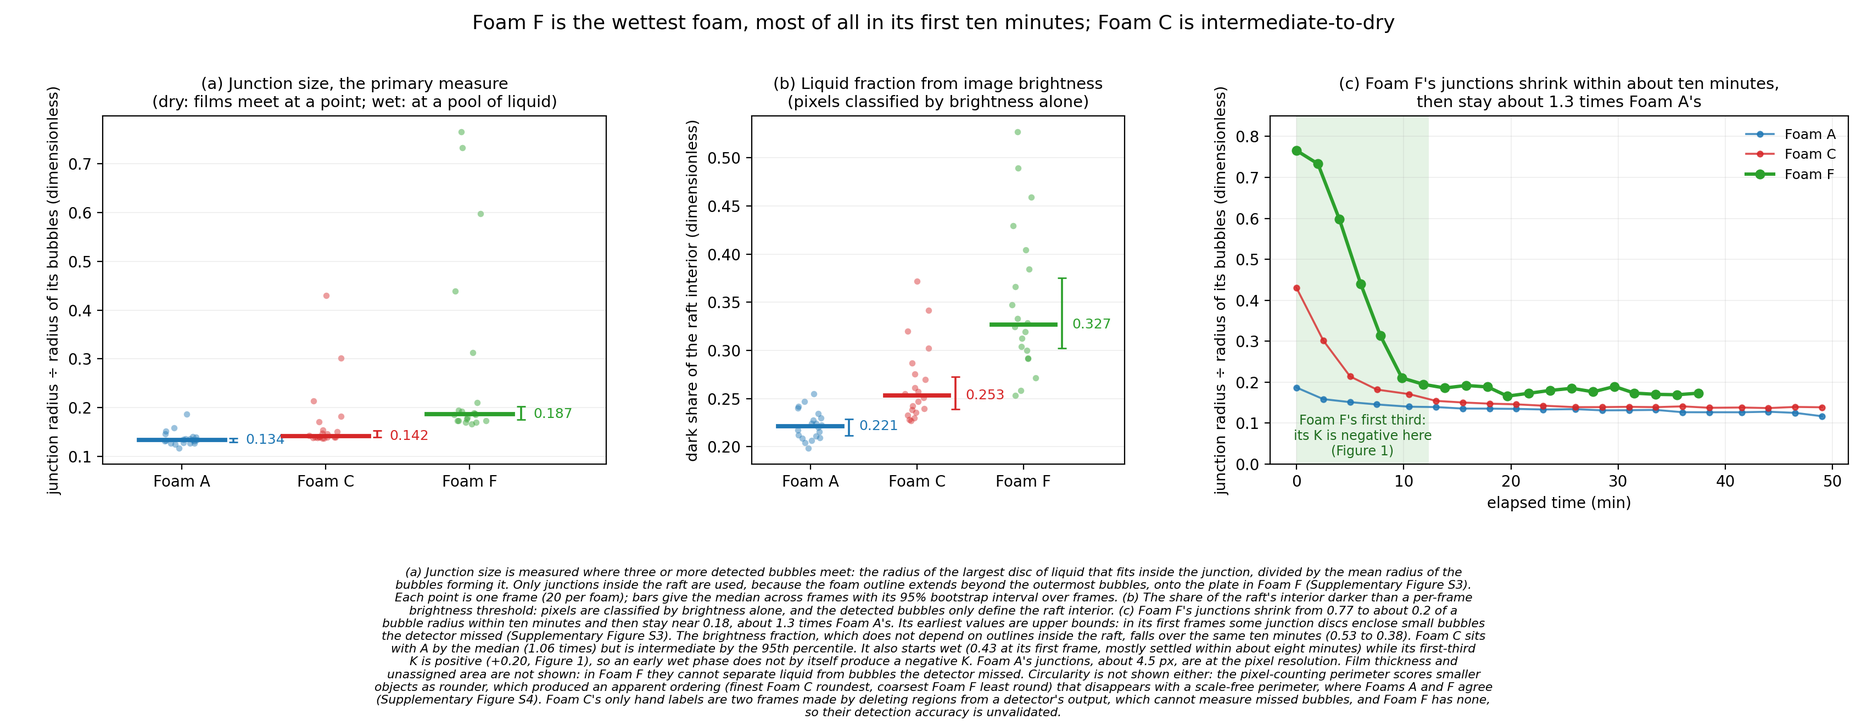
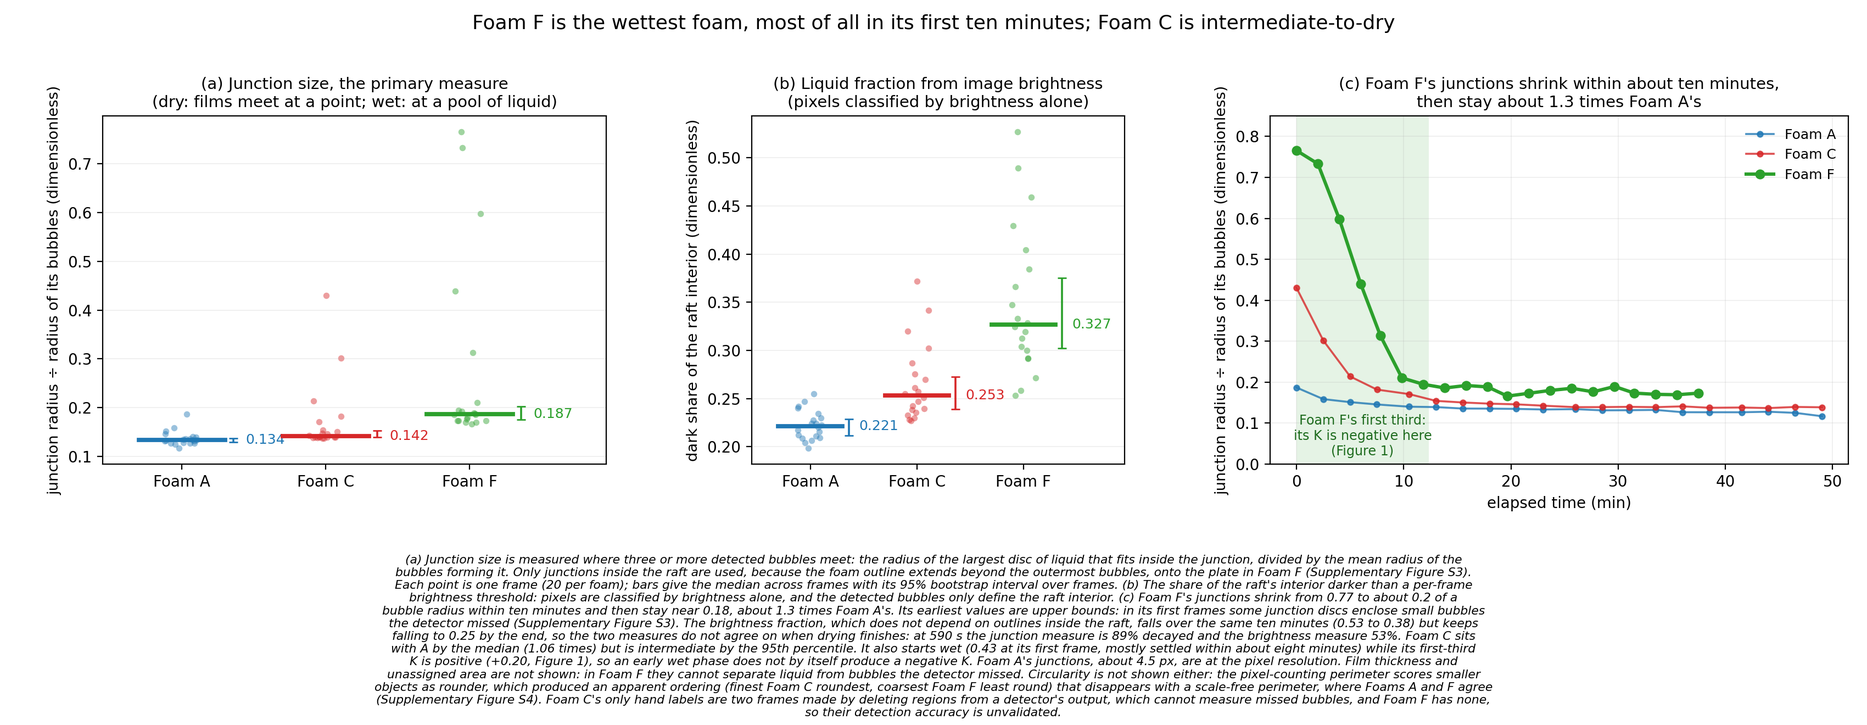
foam_gnn: Task 2 -- the Foam F wetness-K relationship, tested rather than eyeballed
Verdict: the timing coincidence is real and now measured; the correlation carries no
information; and the one test that does inform says wetness is not sufficient.

1. Correlation. Across Foam F's five usable windows Spearman rho(K, wetness) = -0.90
   (junction) and -1.00 (brightness) -- but K's rank order across windows is exactly
   elapsed-time order, so rho(K, wetness) is IDENTICALLY rho(time, wetness) (-0.90 =
   -0.90, -1.00 = -1.00). The correlation restates the wetness-time collinearity and says
   nothing about K. With five windows an exact permutation test can only resolve a
   perfectly monotone relation (|rho| = 1.00; 0.886 at six windows), so treat every
   correlation here as unresolved.
2. Timing. K crosses zero at 402 s [348, 469] (402-465 s across four window schemes),
   inside the wet window. It sits +78 s after the junction half-decay -- inside the 300 s
   granularity of the crossing and flipping resolved/not-resolved with the bootstrap
   construction, so coincident within resolution, NOT a measured lag -- and -133 s before
   the brightness half-decay, where the sign is stable (P ~ 0.998). The two wetness
   measures are not interchangeable clocks: at 590 s the junction measure is 89% decayed,
   the brightness measure 53%.
3. The informative test. After Foam F's junction size comes within 10% of its plateau, K
   rises a further 31% (P(ratio<=1) = 0.021) while its own wetness change is NOT
[…]

Changed region(s): [[0.1871, 0.7455, 0.8106, 0.9008]]

diff --git a/foam_gnn/docs/foamF_wetness_k_test.md b/foam_gnn/docs/foamF_wetness_k_test.md
@@ -1,0 +1,271 @@
+# Is there a measurable wetness–K relationship in Foam F?
+
+**Verdict: the association is there and strong in sign, but it carries almost no
+information — and the one test that does carry information says wetness is not sufficient.**
+
+1. **The correlation cannot be resolved, and in Foam F it is arithmetically forced.**
+   Across Foam F's five usable windows, Spearman ρ(K, wetness) = **−0.90** (junction size)
+   and **−1.00** (brightness). But K's rank order across those windows is *exactly* elapsed
+   time order (ρ(K, t) = +1.00), which makes ρ(K, wetness) **identically ρ(time, wetness)** —
+   the numbers are equal to the digit (−0.90 = −0.90, −1.00 = −1.00). The correlation
+   therefore restates the wetness–time collinearity and says nothing new about K. With five
+   windows an exact permutation test can only reach p < 0.05 for a *perfectly* monotone
+   relation; with three or four windows nothing is resolvable at all.
+2. **The timing is measurable, and the two wetness measures disagree about it.** K crosses
+   zero at **402 s** [348, 469] (402–465 s across window schemes). It sits **+78 s** after
+   the junction-size half-decay (325 s [281, 379]) — inside the 300 s granularity of the
+   crossing estimate and flipping between "resolved" and "not resolved" depending on how
+   the half level is bootstrapped, so **coincident within resolution, not a measured lag**
+   — and **−133 s before** the brightness half-decay (535 s [508, 686]), where the sign is
+   stable under both constructions (P ≈ 0.998). The measures are not interchangeable
+   clocks: at 590 s the junction measure has completed 89% of its decay and the brightness
+   measure 53% (at 740 s, 94% and 61%).
+3. **The decisive test: in Foam F, K rises while its wetness change is not resolvable.**
+   After the junction measure comes within 10% of its plateau:
+
+   | foam | wetness change over the window | resolved? | K over the window | ratio | P(ratio ≤ 1) |
+   |---|---|---|---|---|---|
+   | **F** | −0.0083 [−0.0152, **+0.0010**] | **no** | +1.489 → +1.951 | **1.31** [1.01, 1.75] | 0.021 |
+   | C | −0.0048 [−0.0089, −0.0029] | yes | +0.211 → +0.133 | **0.63** [0.52, 0.75] | 1.000 |
+   | A | −0.0092 [−0.0132, −0.0047] | yes | +0.466 → +0.317 | 0.68 [0.16, 1.40] | 0.843 (unresolved) |
+
+   **Foam F's K rises by 31% over a stretch where its own wetness change is not resolvable
+   from zero** (P(ratio ≤ 1) = 0.021). Foam C's K *falls* by 37% over a small but resolved
+   drying — so once each foam has dried, K keeps moving, upward in one and downward in the
+   other. **No single function K(wetness) fits both**, and in Foam F wetness is not needed
+   for K to move. (Foam A is unresolved in both directions and carries no weight.)
+
+Driver: `dev/wetness_k_correlation.py`; wetness on a dense grid from `dev/wetness_dense.py`
+(which reproduces the published 20-frame values exactly on every shared frame). Artifacts:
+`qc/wetness_k/`.
+
+---
+
+## 1. Windows, and what the 20-bubble floor allows
+
+Foam F has **56 tracked bubbles in total** and its trusted count falls below 20 after about
+1530 s, so late windows are underpowered by construction. Windows are **refused, not
+fitted**, and the reason is recorded: every Foam F refusal is `bubbles<20`, never missing
+wetness.
+
+| scheme | usable | refused (reason) |
+|---|---|---|
+| thirds (740 s) | 3 of 3 | — |
+| quarters (555 s) | 3 of 4 | last: 16 bubbles |
+| fifths (444 s) | 4 of 5 | last: 13 bubbles |
+| **sixths (370 s) — primary** | **5 of 6** | last: 8 bubbles |
+| sliding 600 s / step 300 s (timing only) | 6 of 7 | from 1800 s: 13 bubbles |
+
+> `# DECISION (primary windows = equal sixths).` Thirds cannot locate a transition inside
+> the first third. Sixths are the finest equal partition where most windows clear the floor.
+> `# DECISION (sliding windows are used only for timing)`, never as correlation samples,
+> because overlapping windows are not independent points.
+> `# DECISION (window wetness = median of the dense-grid frames inside it)`, matching how
+> every other wetness number in the project is formed; intervals resample those frames.
+> `# DECISION (Foam A's wetness grid covers both runs, 0–5999 s).` The published 20-frame
+> file samples run0 only (0–2850 s). Pairing that against K windows spanning the whole
+> sequence refused Foam A's later windows for want of wetness rather than bubbles, and
+> **misplaced its plateau onset at 750 s instead of 3119 s** — which reversed its
+> post-plateau result. Extending the grid fixed it; the first version of this document
+> reported Foam A rising 1.44× [1.24, 1.68], which was an artifact of the truncation.
+
+**Foam F, primary windows** (30 s horizon; K intervals are cluster bootstraps resampling
+whole bubbles, which are shared between windows — 56 in total):
+
+| window | bubbles | junction size | brightness | K |
+|---|---|---|---|---|
+| 0–370 s | 56 | 0.649 | 0.474 | **−0.700** [−1.050, −0.467] |
+| 370–740 s | 43 | 0.258 | 0.388 | +1.067 [0.600, 1.528] |
+| 740–1110 s | 34 | 0.191 | 0.338 | +1.417 [0.866, 1.799] |
+| 1110–1480 s | 25 | 0.176 | 0.325 | +1.751 [1.233, 2.233] † |
+| 1480–1850 s | 23 | 0.181 | 0.298 | +1.892 [1.166, 2.377] † |
+| 1850–2220 s | **8** | 0.174 | 0.259 | **refused** (no interval is computed) |
+
+† These two windows clear the floor on the point estimate (25 and 23 bubbles) but their
+*bootstrap replicates* mostly do not: the median replicate holds 16 and 15 distinct bubbles,
+and 96% and 99% of replicates fall below the 20-bubble floor. Their intervals should be read
+as wide for that reason, and the project's floor is applied to the point estimate only.
+
+## 2. The correlation, and why it is uninformative
+
+Sixths, all three foams (A and C are controls run through the identical procedure):
+
+| foam | measure | windows | Spearman ρ | exact p | ρ(K, t) | ρ(wetness, t) |
+|---|---|---|---|---|---|---|
+| **F** | junction size | 5 | **−0.90** [−1.00, −0.60] | 0.083 | **+1.00** | −0.90 |
+| **F** | brightness | 5 | **−1.00** [−1.00, −0.40] | 0.017 | **+1.00** | −1.00 |
+| C | junction size | 6 | +0.43 [−0.09, +0.77] | 0.419 | −0.66 | −0.83 |
+| C | brightness | 6 | +0.66 [+0.13, +0.83] | 0.175 | −0.66 | −1.00 |
+| A | junction size | 6 | −0.83 [−1.00, −0.03] | 0.058 | +0.83 | −1.00 |
+
+(Smallest |ρ| an exact test can resolve: 1.00 at five windows, 0.886 at six. So none of
+these rows is resolved, including Foam A's −0.83 at p = 0.058.)
+
+**Why Foam F's number is empty.** Because ρ(K, t) = +1.00 *exactly*, K's rank vector is the
+time rank vector, so ρ(K, wetness) **is** ρ(time, wetness) — not approximately, identically.
+The correlation measures the wetness–time collinearity, which is a property of the
+experiment, not of K.
+
+This forcing needs |ρ(K, t)| = 1 and so does **not** apply to Foams C and A. Enumerating all
+six-window rank vectors consistent with Foam C's observed ρ(K, t) = −0.66 and
+ρ(wetness, t) = −0.83, its ρ(K, wetness) could have fallen anywhere in [+0.14, +0.94]; the
+observed +0.43 is one of fifteen possible values. So Foam C's correlation is not forced —
+but it is also not resolved (its interval spans zero).
+
+**And its positive sign is not an opposite-sign wetness response.** Split Foam C by phase:
+over its own drying (first three sliding windows, junction 0.220 → 0.154) ρ(K, wetness) =
+**−1.0**, the *same* sign as Foam F, with K rising +0.167 → +0.244. The positive
+whole-sequence value comes entirely from the four later windows sitting on C's plateau,
+whose wetness medians (0.145, 0.141, 0.139, 0.139) differ by less than their own bootstrap
+intervals while K falls steadily to +0.133. **During drying the two foams agree in sign;
+they differ in what K does afterwards** — which is the post-plateau test of §4, not a
+contrary wetness response.
+
+**Power.** With five windows the smallest |ρ| an exact permutation test can call significant
+at p < 0.05 is **1.00**; with six it is 0.886; with four the best achievable p is 0.083 and
+with three 0.333, so **no correlation is resolvable below five windows whatever its value**. Foam F's brightness
+result reaches p = 0.017 only by being exactly monotone, and even that is optimistic —
+windows share bubbles and are consecutive in time, so they are not the independent samples
+a permutation test assumes. **Treat every correlation here as unresolved.**
+
+## 3. Timing: coincide, lag, or precede?
+
+| quantity | t (s) | 95% CI |
+|---|---|---|
+| K zero crossing (sliding 600 s / 300 s) | **402** | [348, 469] |
+| — window 600 s / step 150 s | 465 | [362, 533] |
+| — window 450 s / step 150 s | 435 | [360, 505] |
+| — window 740 s / step 370 s | 445 | [383, 516] |
+| junction-size half-decay | **325** | [281, 379] |
+| brightness half-decay | **535** | [508, 686] |
+| **K crossing − junction half-decay** | **+78** | [−0.3, +165], P(≤0) = 0.026 |
+| — same, half level held fixed | +78 | [+7, +166], P(≤0) = 0.014 |
+| **K crossing − brightness half-decay** | **−133** | [−304, −67], P(≤0) = 0.998 |
+| — same, half level held fixed | −133 | [−196, −68], P(≤0) = 0.998 |
+
+The K rows resample **whole bubbles** (cluster bootstrap, 2000 replicates); the half-decay
+rows resample the 46 dense wetness **frames**; the difference rows pair the two
+element-wise.
+
+K's sign change sits **between** the two measures' half-decays: after the junction structure
+has half-collapsed, before half the liquid (by brightness) has gone.
+
+**The junction "lag" is not a resolved lag.** Its interval touches zero under the primary
+construction and clears it under the level-fixed one (P(no lag) = 0.026 and 0.014), so the
+verdict flips with a defensible change of procedure — and across re-runs with fresh seeds
+the lower bound moves either side of zero. More decisively, +78 s is well inside the 300 s
+granularity of the crossing estimate. **Read it as coincident within the resolution of this
+measurement, not as a measured lag.** The brightness comparison is different: K precedes
+that half-decay by 133 s under both constructions, with P ≈ 0.998, and 133 s is comparable
+to the granularity but the sign is stable.
+
+**Caveat on resolution.** The crossing is interpolated between window centres, so its
+granularity is the step: 300 s in the primary scheme, and 150 s, 150 s and **370 s** in the
+three sensitivity runs (the last is coarser than the primary, not finer, and its interval
+conditions on the 97% of replicates in which a crossing exists at all). The estimate is
+stable across schemes (402–465 s), but differences below ~150 s should not be over-read —
+which includes the +78 s junction lag.
+
+**Caveat on the half-decay interval, and why both are reported.** Each replicate
+re-estimates the half threshold as well as the curve, because the threshold is itself
+measured from the data — the bootstrap of the whole estimator. Holding the level fixed
+instead isolates the crossing and gives narrower intervals: the junction difference moves
+from [−0.3, +165] to [+7, +166] and the brightness difference from [−304, −67] to
+[−196, −68] (`qc/wetness_k/timing.csv` carries both rows). The junction verdict changes
+between them, which is precisely why neither is presented alone.
+
+**The two measures disagree about the drying window** (`qc/wetness_k/decay_fractions.csv`).
+At 590 s the junction measure is 89% decayed and the brightness measure 53%; at 740 s, 94%
+and 61%. The junction measure collapses early then saturates near the pixel resolution; the
+brightness measure keeps falling nearly linearly to the end of the sequence.
+
+## 4. The confound, and what would break it
+
+In Foam F wetness and elapsed time are collinear (|ρ| ≈ 1), so **no within-F correlation can
+separate them.** What would:
+
+* **A foam that re-wets, or whose wetness is non-monotone in time.** None of the six foams
+  in this project does.
+* **Two foams with the same wetness trajectory over different elapsed spans**, or the same
+  span with different trajectories — an experiment designed to decorrelate them.
+* **An intervention** setting humidity or evaporation independently of foam age. This is the
+  only clean route and needs new data.
+
+**What the existing data can do:**
+
+* **The post-plateau test.** In Foam F, K rises 31% (P(ratio ≤ 1) = 0.021) while its
+  wetness change is **not resolved** (−0.008 [−0.015, +0.001]) — K moves without a
+  detectable wetness change. In Foam C, K falls 37% over a small resolved drying, i.e.
+  **drier accompanies lower K** once C has dried, while during C's actual drying the sign
+  matches Foam F's (§2). The implied local sensitivities have opposite signs (C +16.3
+  [+6.5, +30.7]; F −55.8, unresolved [−362, +131]), so a single monotone K(wetness) cannot
+  fit both phases. Foam A is unresolved either way (0.68 [0.16, 1.40]) and carries no
+  weight here.
+* **Matched wetness across foams.** At comparable junction wetness the foams do not agree
+  on K, even after Task 1's standardisation (K* = K/A_char, so magnification and coarseness
+  are divided out):
+
+  | foam | window | junction wetness | K* (10⁻⁴ s⁻¹), yardstick-exact interval |
+  |---|---|---|---|
+  | F | 600–1200 s | 0.191 | +4.24 [2.66, 5.44] |
+  | C | 0–600 s | 0.220 | +2.14 [1.71, 2.56] |
+  | F | 300–900 s | 0.246 | +2.86 [1.50, 4.30] |
+
+  **These intervals treat A_char as exact**, which is the form Task 1 reports alongside but
+  does *not* adopt; the adopted joint intervals, which also resample the frames A_char is
+  measured on, are about 27% wider. As printed the Foam F (0.191) and Foam C (0.220)
+  intervals are disjoint by 0.10; under the joint intervals they overlap. Either way only
+  one Foam C window falls inside Foam F's range, so this comparison is suggestive at best.
+
+## 5. What this does and does not support
+
+**Supported.** Foam F's K and its wetness move together over its first ten minutes, in the
+direction the physical story predicts, and the sign change falls inside the drying window
+(402 s [348, 469], inside 0–740 s). Foam C's drying phase moves the same way, which is the
+one piece of cross-foam support the data give.
+
+**Not supported.** That wetness *drives* K. The correlation is identically the
+wetness–time collinearity; it is not resolvable at the available window count; K rises 31%
+in Foam F with no detectable wetness change; and once each foam has dried, K keeps moving —
+upward in Foam F, downward in Foam C — which no single function of wetness produces.
+
+**Recommendation.** Keep the published *timing* wording (Figures 1, 3 and 4), which is a
+coincidence claim and is exactly what these data support. Do **not** upgrade it to a
+correlation or a mechanism, and do not add a figure: a five-point correlation that cannot be
+resolved should not be drawn as a relationship.
+
+## 6. Published statements: what was changed today
+
+Three files were edited (not silently — each carries a dated note):
+
+| file | change |
+|---|---|
+| `docs/wetness_and_k_fragility.md` | The bullet "**The wetness mechanism is supported for Foam F specifically**" is struck through and given a dated *Narrowed 2026-09-19* block: the timing coincidence holds, "mechanism" does not. |
+| `results_package/SUMMARY.md` §7 | New paragraph "Does wetness actually drive K? Tested directly…", reporting the crossing time, the collinearity, and the post-plateau result. |
+| `paper_figures/README.md` (Figure 4) | New paragraph recording that the relationship was tested, that the caption's timing wording is what survives, and that no figure is drawn. |
+
+Statements left standing, and one to qualify:
+
+| where | statement | status |
+|---|---|---|
+| Figure 4 caption, `SUMMARY.md` §7 | "That wet window falls inside the first third … where Foam F's K is negative" | **stands** — now measured: K crosses zero at 402 s [348, 469] |
+| Figure 3 caption, `SUMMARY.md` §7 | "a first third that contains its wet phase, with negative K … and a drier remainder with K ≈ +1.6" | **stands**, with the addition that K keeps rising 31% [2%, 69%] after wetness plateaus |
+| Figure 4 caption, `SUMMARY.md` §7 | "the brightness fraction … also falls over the same ten minutes (0.53 to 0.38)" | **qualified today** in all three places (caption, SUMMARY, README): true as far as it goes, but the brightness measure is only 53% decayed at 590 s and keeps falling to 0.25 by the end, so it does not corroborate a drying window confined to ten minutes |
+
+## 7. Limitations
+
+* **56 bubbles, 5 usable windows.** The binding constraint; no windowing fixes it.
+* Foam F has **no hand-labelled ground truth**, so both its K and its wetness are
+  detector-dependent, and its earliest junction values are upper bounds (some junction discs
+  enclose bubbles the detector missed, Supplementary Figure S3).
+* Windows share bubbles, so permutation p-values are optimistic and window intervals are
+  correlated. In Foam F's two latest usable windows, most bootstrap replicates hold fewer
+  than 20 distinct bubbles even though the point estimates clear the floor.
+* The plateau criterion (first frame within 10% of the plateau) is a definition, not a
+  fitted transition. It is also sensitive to how far the wetness series extends — which is
+  exactly what went wrong for Foam A in the first version of this analysis, where a
+  truncated wetness grid put A's plateau at 750 s instead of 3119 s and produced a
+  "resolved" rise that does not survive the fix.
+* Interval constructions are stated where they matter (bubbles vs frames; half level
+  re-estimated vs fixed), because the junction-lag verdict changes between them. Where a
+  verdict depends on the construction, this document reports both rather than choosing.

diff --git a/foam_gnn/results_package/SUMMARY.md b/foam_gnn/results_package/SUMMARY.md
@@ -345,12 +345,31 @@ intervals over frames):
 A's for the rest of the sequence. The earliest junction values are upper bounds — some of
 those junctions enclose small bubbles the detector missed — but the brightness fraction,
 which does not rely on outlines inside the raft, also falls over the same ten minutes (0.53
-to 0.38). That wet window falls inside the first third of the sequence (0–12 min), **where
+to 0.38) — though it is only about half decayed by then and keeps falling to 0.25 by the
+end, so the two measures do not agree on when drying finishes. That wet window falls inside
+the first third of the sequence (0–12 min), **where
 Foam F's K is negative** (next subsection). Foam C sits with A on the median junction and
 between A and F by the 95th percentile, and it too starts wetter (0.43 at frame 0), mostly
 settling within about eight minutes — yet its first-third K is positive (+0.20), so an early
 wet phase does not by itself make K negative. So: **Foam C is intermediate-to-dry, and Foam
 F is the wettest foam, most of all in its early phase.** → `tables/foam_wetness_per_frame.csv`
+
+**Does wetness actually drive K? Tested directly on Sept. 19 — the timing matches, but
+wetness is not sufficient.** Foam F's K and wetness were measured in matched time windows
+(five usable; any window with fewer than 20 tracked bubbles was refused). K crosses zero at
+**402 s** [348, 469], inside the wet window — so the coincidence in time is now measured
+rather than eyeballed. But the correlation itself carries no information: K's rank order
+across windows is exactly elapsed-time order, so the K–wetness rank correlation is
+*identically* the **time–wetness** correlation — it restates how tightly wetness tracks the
+clock (|ρ| = 0.83–1.00 in every foam) and says nothing about K. The test that does inform:
+**after Foam F's junction size comes within 10% of its plateau, K rises a further 31%
+[2%, 69%] while its own wetness change over that stretch is not resolvable from zero**
+(−0.008 [−0.015, +0.001]). The same test on Foam C gives 0.63× [0.52, 0.74] over a small
+but resolved drying — K *falling* as the foam dries, the opposite direction to Foam F. **So
+K moves without a detectable wetness change in one foam, and against the wetness direction
+in the other.** Separating wetness from elapsed time would need a foam that re-wets, or an
+experiment that sets humidity independently of foam age; no existing foam does.
+→ `docs/foamF_wetness_k_test.md`
 
 ### Wet or dry, K is not stable — none of the three foams has a constant K
 

diff --git a/foam_gnn/docs/wetness_and_k_fragility.md b/foam_gnn/docs/wetness_and_k_fragility.md
@@ -253,12 +253,25 @@ sign of a fit that assumes it. Two things follow, and both matter:
 
 * **Foam F's pooled K of +0.5995 averages across a sign change and is not a meaningful
   single number.** It should not be reported as one.
-* **The wetness mechanism is supported for Foam F specifically** — K is negative exactly
+* ~~**The wetness mechanism is supported for Foam F specifically**~~ — K is negative exactly
   where the foam is wettest, and the sign diagnostics show the route — **but it cannot be
   the general explanation**, because ~~Foams A and C are dry throughout~~ Foam A is dry
   throughout and Foam C, although it starts wet (junction 0.43 at frame 0), keeps a positive
   K in its first third (+0.200), and both foams' K still moves by 41% and 38% of its own
   value across the sequence. *(Corrected 2026-09-18.)*
+
+  > **Narrowed 2026-09-19 after testing it directly** (`docs/foamF_wetness_k_test.md`).
+  > What holds is the **coincidence in time**: K crosses zero at 402 s [348, 469], inside
+  > the wet window. What does not hold is "mechanism". Across Foam F's five usable time
+  > windows K's rank order is exactly elapsed-time order, so the K–wetness rank correlation
+  > is identically the **time–wetness** correlation and carries no independent information
+  > about K; with five windows no correlation short of perfectly monotone can reach p < 0.05
+  > anyway. And after Foam F's junction size comes within 10% of its plateau, **K rises a
+  > further 31% [2%, 69%]** over a stretch where its wetness change is not resolvable from
+  > zero. The same test on Foam C gives 0.63× [0.52, 0.74] over a small but resolved
+  > drying — K falling as it dries, the opposite direction. Wetness is therefore not
+  > sufficient to explain K's variation, and within Foam F wetness and elapsed time cannot
+  > be separated at all.
 
 ---
 

diff --git a/foam_gnn/paper_figures/README.md b/foam_gnn/paper_figures/README.md
@@ -177,6 +177,17 @@ described by size ("finest Foam C", "coarsest Foam F"), not as "dry"/"wet".
 liquid from missed bubbles) and circularity (the pixel-counting perimeter scores smaller
 objects as rounder; with a scale-free perimeter Foams A and F agree, S4).
 
+**The wetness–K relationship was tested directly (Sept. 19) and the caption's wording is
+what survives.** K's sign change at 402 s [348, 469] does fall inside the wet window, so
+the timing coincidence in this figure is measured. It is not a mechanism: across Foam F's
+five usable windows K's rank order is exactly elapsed-time order, so the K–wetness
+correlation is identically the **time–wetness** correlation and says nothing about K, and K
+keeps rising 31% [2%, 69%] after the junction measure plateaus, over a stretch where its
+wetness change is not resolvable. The two wetness measures also disagree about when drying
+ends: at 590 s the junction measure is 89% decayed and the brightness measure 53%, and the
+latter keeps falling to the end of the sequence. No figure is drawn from a five-point
+correlation that cannot be resolved. → `docs/foamF_wetness_k_test.md`
+
 **Withdrawn from the previous version (`figB`):** junction half-width A 1.04 / C 1.14 /
 F 5.68 and "five times"; the drying trend 6.10 → 3.75; "Foam C is dry on every measure";
 the Laplace-pressure explanation of circularity.
